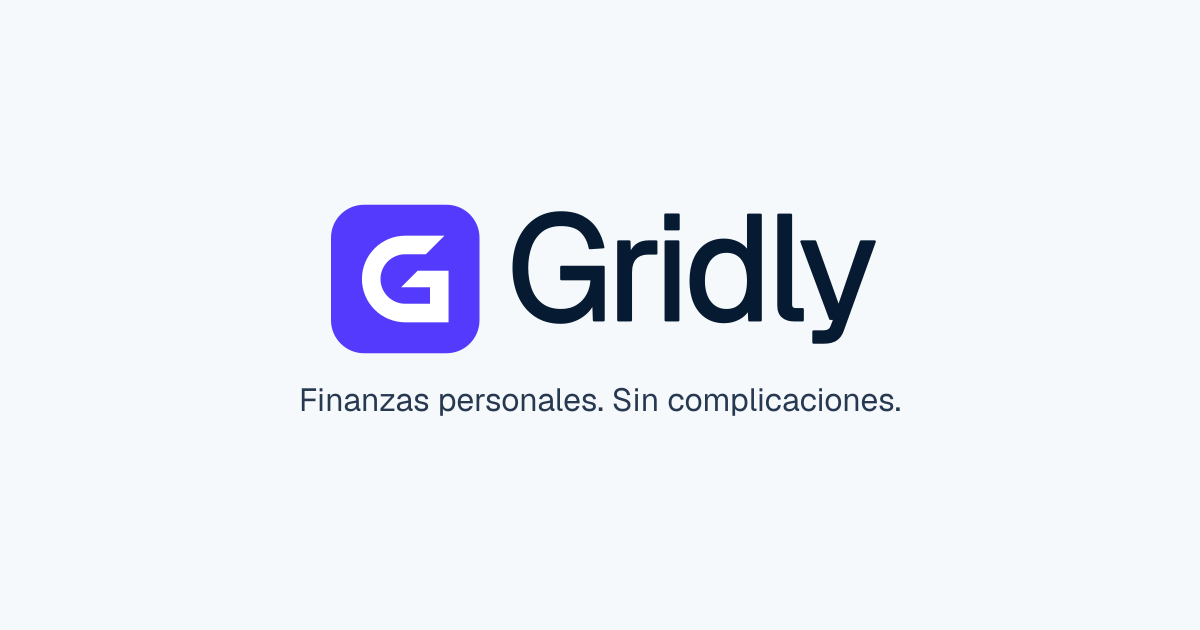
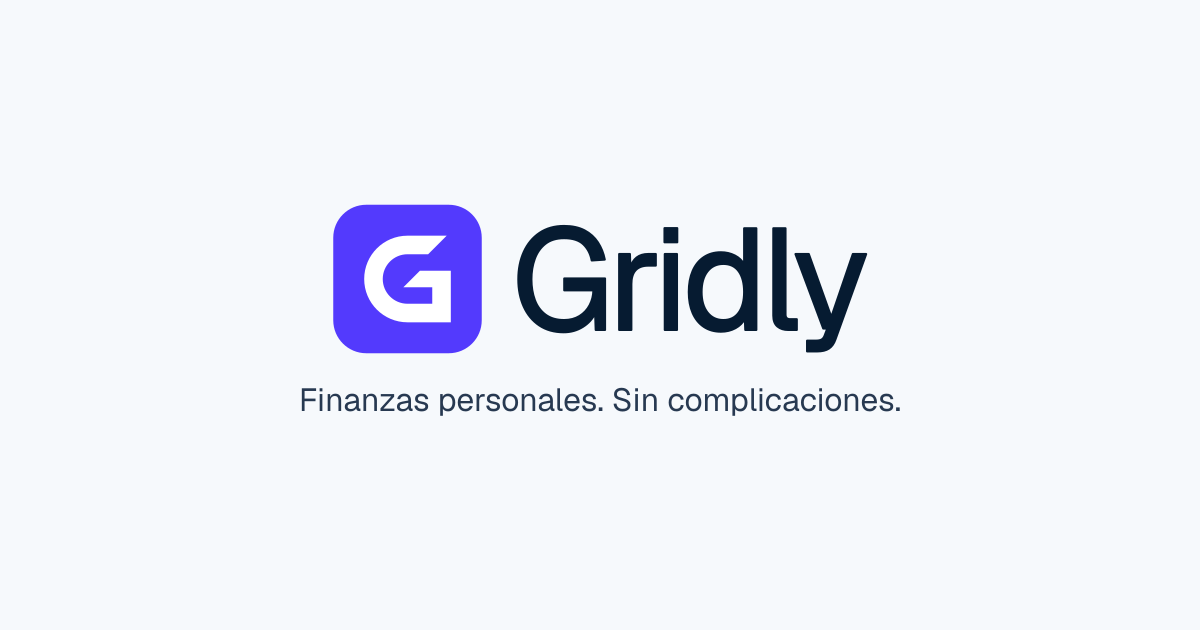
Fix mobile wordmark clipping and optical alignment

Changed region(s): [[0.37, 0.3317, 0.74, 0.573], [0.2775, 0.4222, 0.3392, 0.4825], [0.3083, 0.3921, 0.3392, 0.4222]]

diff --git a/src/components/layout/base-app-shell.tsx b/src/components/layout/base-app-shell.tsx
@@ -40,13 +40,13 @@ export function BaseAppShell({ headerRightContent, children }: Props) {
     <div ref={rootRef} className="app-atmosphere relative min-h-screen text-foreground">
       <header ref={headerRef} className="relative md:sticky top-0 z-40 app-header-surface">
         <div className="mx-auto grid w-full max-w-7xl grid-cols-[1fr_auto] items-center gap-x-3 gap-y-2 px-4 py-2 sm:px-6 md:flex md:items-center md:justify-between md:gap-4 md:py-4 lg:px-8">
-          <Link href="/" className="group inline-flex items-center gap-2 justify-self-start">
+          <Link href="/" className="group inline-flex min-w-0 items-center gap-2 justify-self-start">
             <Image
               src="/gridly-wordmark.svg"
               alt="Gridly"
               width={216}
               height={64}
-              className="h-10 w-[135px] transition-transform duration-200 group-hover:-translate-y-0.5 md:h-12 md:w-[162px]"
+              className="h-auto w-28 min-w-0 transition-transform duration-200 group-hover:-translate-y-0.5 md:w-[162px]"
               priority
             />
             {process.env.NODE_ENV === "development" && (

diff --git a/src/app/[locale]/loading.tsx b/src/app/[locale]/loading.tsx
@@ -8,16 +8,14 @@ export default function LocaleLoading() {
         aria-live="polite"
         className="flex flex-col items-center"
       >
-        <div className="mb-9 w-[9.75rem] overflow-hidden">
-          <Image
-            src="/gridly-wordmark.svg"
-            alt="Gridly"
-            width={216}
-            height={64}
-            priority
-            className="h-14 w-[11.8125rem] max-w-none"
-          />
-        </div>
+        <Image
+          src="/gridly-wordmark.svg"
+          alt="Gridly"
+          width={216}
+          height={64}
+          preload
+          className="mb-9 h-auto w-40 sm:w-48"
+        />
         <div className="relative h-0.5 w-56 overflow-hidden rounded-full bg-primary/10">
           <div className="animate-shimmer-slide absolute inset-y-0 w-[60%] rounded-full bg-linear-to-r from-transparent via-primary to-transparent motion-reduce:hidden" />
         </div>

diff --git a/docs/features/app-icons.md b/docs/features/app-icons.md
@@ -6,7 +6,7 @@ This document describes how Gridly exposes browser, installable app, iOS Safari 
 
 Gridly uses Next.js App Router file-based metadata for primary app icons and keeps one conventional root Apple touch icon in `public/` for Safari iOS bookmark and favorites discovery. Browser and installable metadata icons are intentionally edge-to-edge, because browser tabs, bookmark bars, and Safari iOS add their own visual containers.
 
-The brand mark is a white G with diagonal cuts on the primary purple tile. The horizontal wordmark pairs it with deep navy Geist lettering stored as vector outlines so its spacing and weight render consistently across devices.
+The brand mark is a white G with diagonal cuts on the primary purple tile. The horizontal wordmark pairs it with deep navy Geist lettering stored as vector outlines so its spacing and weight render consistently across devices. The capital G and the ascenders are optically centered on the tile, with room below the baseline for the y. The initial loading screen centers the entire SVG at its intrinsic aspect ratio.
 
 ## Key Components
 
